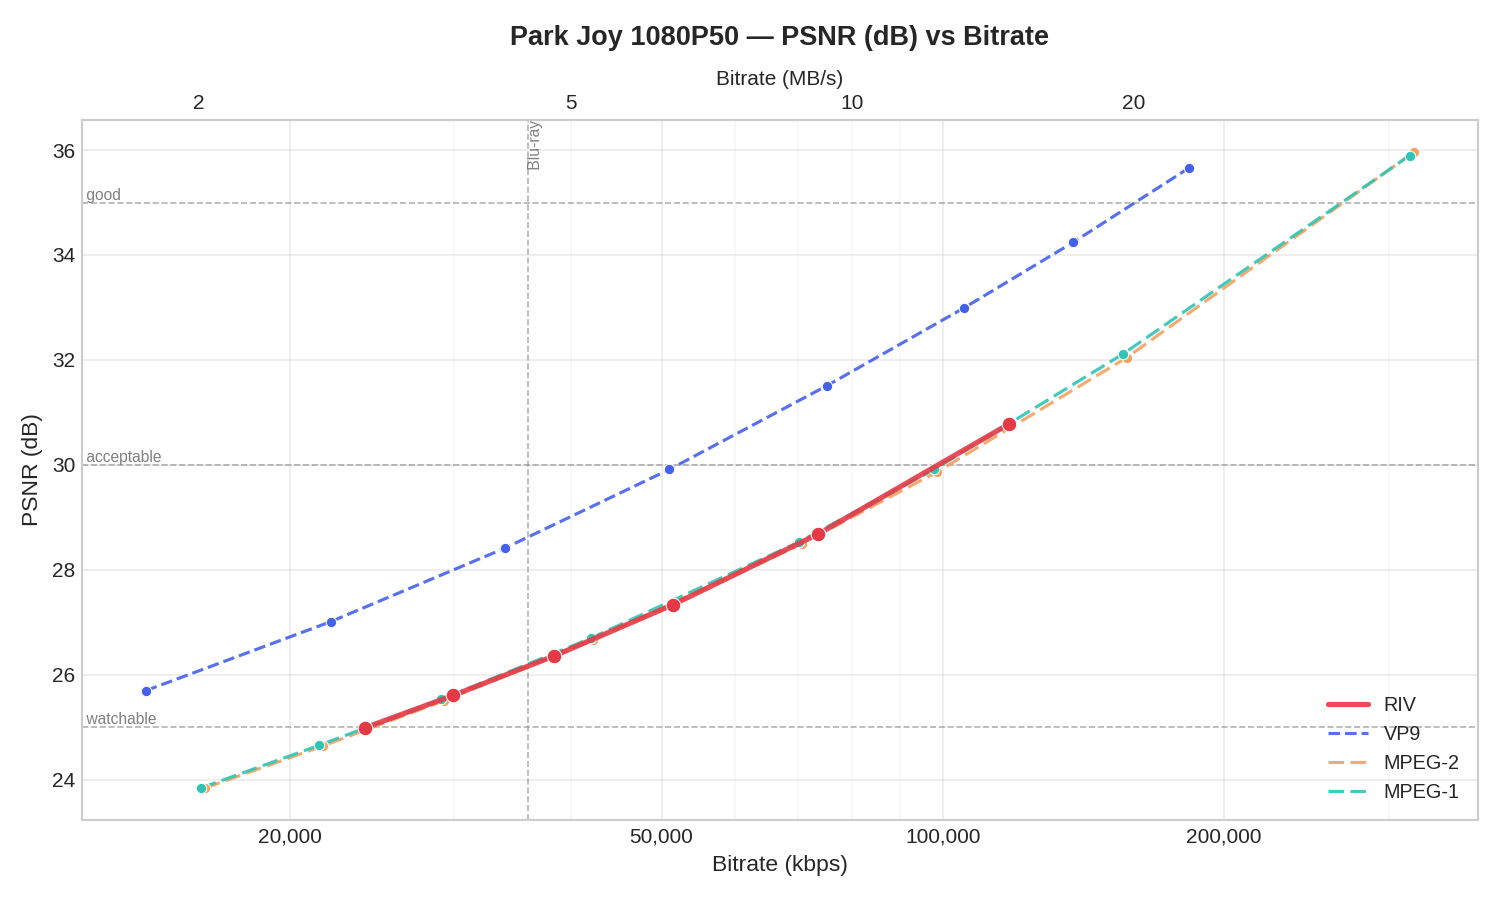
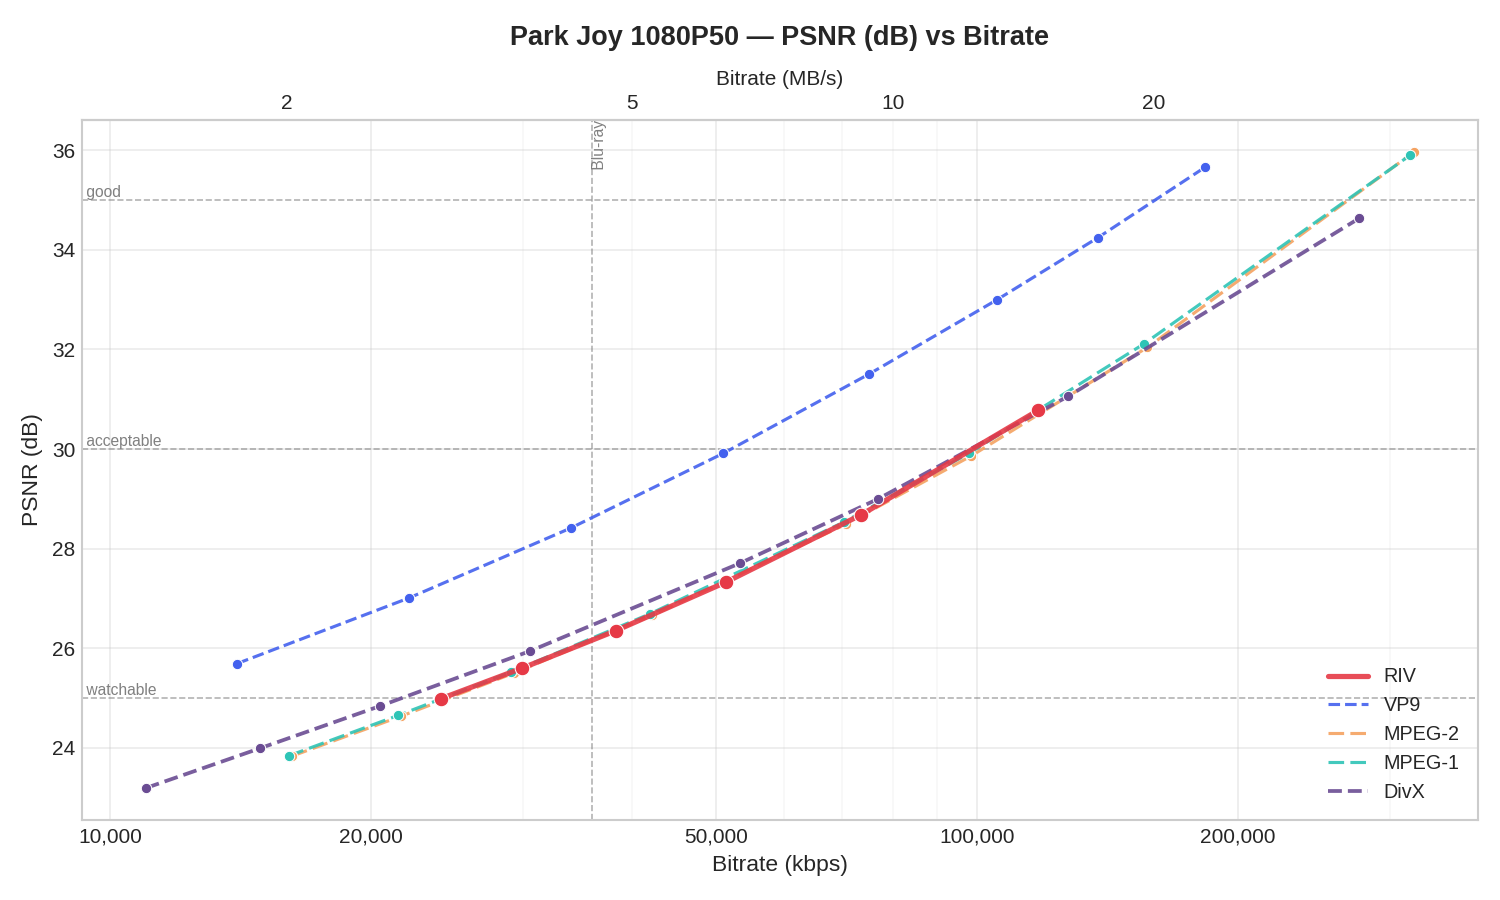
Add DivX into comparison

diff --git a/bench/run.py b/bench/run.py
@@ -23,12 +23,14 @@ RI_CLI = ["cargo", "run", "--profile", "full-opt", "-p", "reitero_video_tools", 
 CODECS = {
     "mpeg1": {"quality_points": [2, 4, 6, 8, 12, 16, 20, 25]},
     "mpeg2": {"quality_points": [2, 4, 6, 8, 12, 16, 20, 25]},
+    "divx":  {"quality_points": [2, 4, 6, 8, 12, 16, 20, 25]},
     "riv2":  {"quality_points": [(70,65),(75,70),(80,75),(85,80),(90,85),(95,90)]},
     "vp9":   {"quality_points": [15, 20, 25, 30, 35, 40, 45, 50]},
 }
 QUICK_CODECS = {
     "mpeg1": {"quality_points": [4, 8, 16]},
     "mpeg2": {"quality_points": [4, 8, 16]},
+    "divx":  {"quality_points": [4, 8, 16]},
     "riv2":  {"quality_points": [(75,70),(85,80),(95,90)]},
     "vp9":   {"quality_points": [20, 30, 40]},
 }
@@ -177,6 +179,22 @@ def encode_mpeg2(seq_dir: Path, out_dir: Path, fps_rational: str, n_frames: int,
     return elapsed, encoded
 
 
+def encode_divx(seq_dir: Path, out_dir: Path, fps_rational: str, n_frames: int, q: int, dry_run: bool) -> tuple[float, Path]:
+    out_dir.mkdir(parents=True, exist_ok=True)
+    encoded = out_dir / "encoded.avi"
+    cmd = [
+        "ffmpeg", "-y",
+        "-r", fps_rational,
+        "-i", str(seq_dir / "frame_%06d.png"),
+        "-vframes", str(n_frames),
+        "-c:v", "mpeg4", "-q:v", str(q), "-pix_fmt", "yuv420p",
+        "-vtag", "DIVX",
+        str(encoded),
+    ]
+    elapsed, _ = run_cmd(cmd, dry_run, f"divx encode q={q}")
+    return elapsed, encoded
+
+
 def encode_vp9(seq_dir: Path, out_dir: Path, fps_rational: str, n_frames: int, crf: int, dry_run: bool) -> tuple[float, Path]:
     out_dir.mkdir(parents=True, exist_ok=True)
     encoded = out_dir / "encoded.webm"
@@ -231,6 +249,19 @@ def decode_and_measure_mpeg2(encoded: Path, ref_frames: list[Path], dry_run: boo
         print(f"  [dry-run] mpeg2 decode+measure:\n    {' '.join(cmd)} | <psnr>")
         return 0.0, 0.0, 0.0
     print(f"  mpeg2 decode+measure: {' '.join(cmd)}")
+    t0 = time.monotonic()
+    proc = subprocess.Popen(cmd, stdout=subprocess.PIPE, stderr=subprocess.DEVNULL)
+    avg_psnr, avg_ssim, _ = measure_streamed(proc.stdout, ref_frames)
+    proc.wait()
+    return time.monotonic() - t0, avg_psnr, avg_ssim
+
+
+def decode_and_measure_divx(encoded: Path, ref_frames: list[Path], dry_run: bool) -> tuple[float, float, float]:
+    cmd = ["ffmpeg", "-i", str(encoded), "-f", "image2pipe", "-vcodec", "ppm", "pipe:1"]
+    if dry_run:
+        print(f"  [dry-run] divx decode+measure:\n    {' '.join(cmd)} | <psnr>")
+        return 0.0, 0.0, 0.0
+    print(f"  divx decode+measure: {' '.join(cmd)}")
     t0 = time.monotonic()
     proc = subprocess.Popen(cmd, stdout=subprocess.PIPE, stderr=subprocess.DEVNULL)
     avg_psnr, avg_ssim, _ = measure_streamed(proc.stdout, ref_frames)
@@ -343,6 +374,39 @@ def bench_mpeg2(seq_name: str, seq_dir: Path, meta: dict, quality_points: list[i
         }
 
 
+def bench_divx(seq_name: str, seq_dir: Path, meta: dict, quality_points: list[int], dry_run: bool, results: list[dict]):
+    fps_rational = meta["fps_rational"]
+    n_frames = meta["frame_count"]
+    refs = ref_frame_paths(seq_dir, n_frames)
+    duration_s = n_frames / meta["fps"]
+
+    for q in quality_points:
+        if already_done(results, "divx", q):
+            print(f"\n--- {seq_name} / divx_q{q}: already done, skipping ---")
+            continue
+        out_dir = WORK_DIR / seq_name / f"divx_q{q}"
+        print(f"\n--- {seq_name} / divx_q{q} ---")
+
+        enc_time, encoded = encode_divx(seq_dir, out_dir, fps_rational, n_frames, q, dry_run)
+        dec_time, avg_psnr, avg_ssim = decode_and_measure_divx(encoded, refs, dry_run)
+
+        if dry_run:
+            yield {"sequence": seq_name, "codec": "divx", "quality_param": q, "dry_run": True}
+            continue
+
+        encoded_bytes = encoded.stat().st_size
+        bitrate_kbps = (encoded_bytes * 8) / duration_s / 1000
+        yield {
+            "sequence": seq_name, "codec": "divx", "quality_param": q,
+            "bitrate_kbps": round(bitrate_kbps, 2),
+            "psnr": round(avg_psnr, 4), "ssim": round(avg_ssim, 6),
+            "encode_time_s": round(enc_time, 3), "decode_time_s": round(dec_time, 3),
+            "encode_fps": round(n_frames / enc_time, 2) if enc_time > 0 else None,
+            "decode_fps": round(n_frames / dec_time, 2) if dec_time > 0 else None,
+            "encoded_bytes": encoded_bytes,
+        }
+
+
 def bench_vp9(seq_name: str, seq_dir: Path, meta: dict, quality_points: list[int], dry_run: bool, results: list[dict]):
     fps_rational = meta["fps_rational"]
     n_frames = meta["frame_count"]
@@ -437,6 +501,8 @@ def run_sequence(seq_name: str, codecs: dict, dry_run: bool) -> None:
             gen = bench_mpeg1(seq_name, seq_dir, meta, cfg["quality_points"], dry_run, results)
         elif codec == "mpeg2":
             gen = bench_mpeg2(seq_name, seq_dir, meta, cfg["quality_points"], dry_run, results)
+        elif codec == "divx":
+            gen = bench_divx(seq_name, seq_dir, meta, cfg["quality_points"], dry_run, results)
         elif codec == "riv2":
             gen = bench_riv2(seq_name, seq_dir, meta, cfg["quality_points"], dry_run, results)
         elif codec == "vp9":

diff --git a/bench/plot.py b/bench/plot.py
@@ -18,6 +18,7 @@ CODEC_STYLE = {
     "vp9":   ("VP9",     "#4361EE",  1.5,  "--",       "s",    5,   4),
     "mpeg2": ("MPEG-2",  "#F4A261",  1.5,  (0,(5,2)),  "D",    5,   3),
     "mpeg1": ("MPEG-1",  "#2EC4B6",  1.5,  (0,(5,2)),  "^",    5,   3),
+    "divx":  ("DivX",    "#6A4C93",  1.8,  "--",       "v",    5,   4),
 }
 
 # Vertical reference lines: (label, bitrate_kbps)
